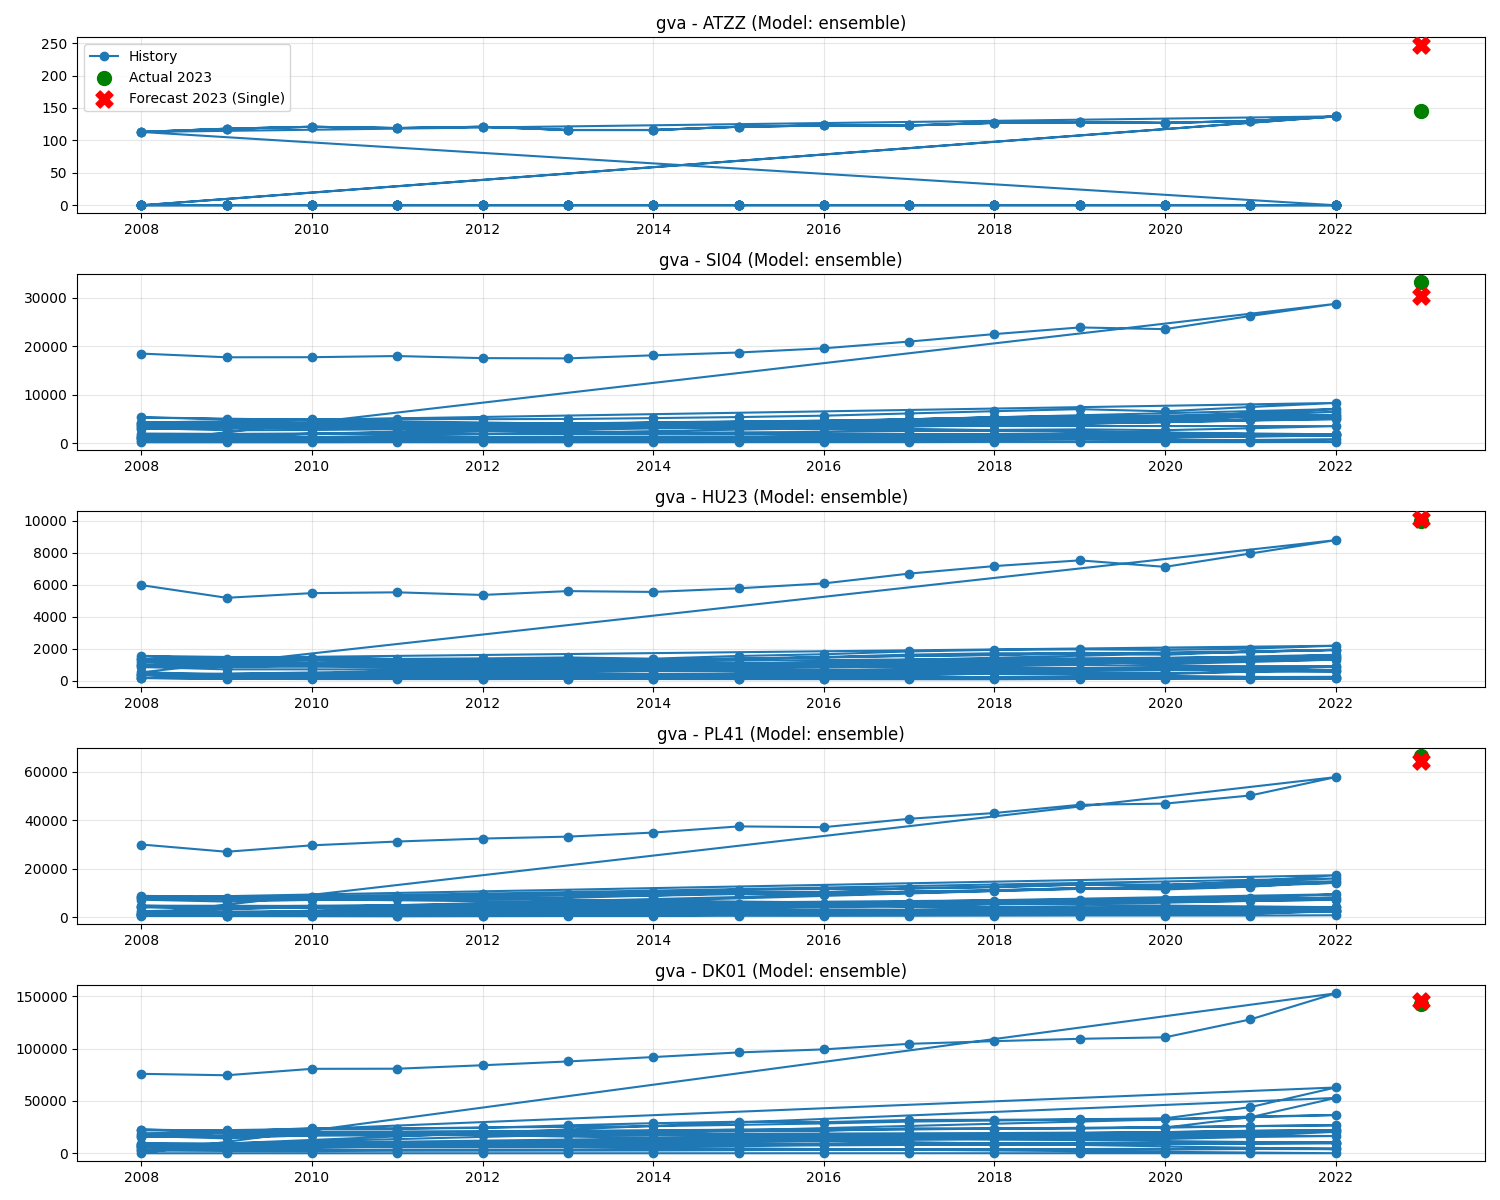
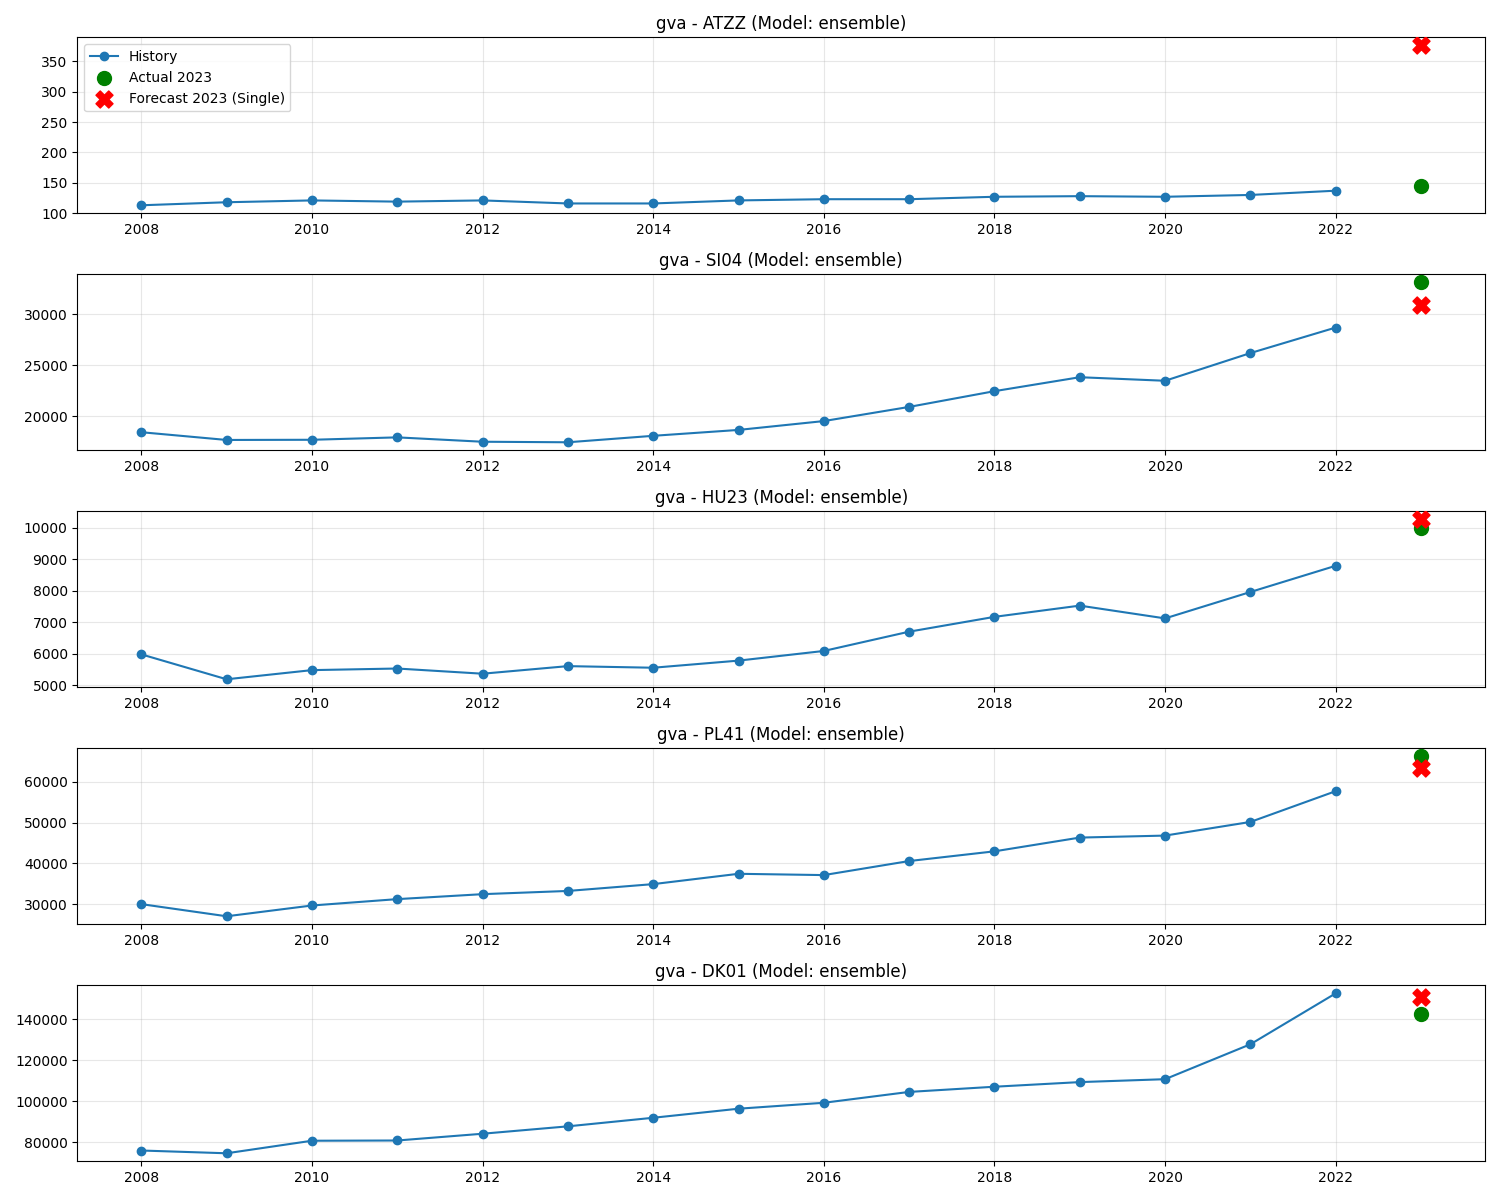
fix gva

diff --git a/src/data_processor.py b/src/data_processor.py
@@ -92,8 +92,17 @@ def prepare_indicator_dataset(wide_df, target_indicator, target_year=2023):
         c for c in wide_df.columns if not c.endswith(str(target_year)) and c != "geo"
     ]
 
-    # X_single: just target_indicator history
-    single_feature_cols = [c for c in feature_cols if c.startswith(target_indicator + "_")]
+    # X_single: just target_indicator history (exact match, not sub-indicators)
+    # Match columns like "gva_2008" but NOT "gva_sector_a_2008"
+    # The pattern should be: {target_indicator}_{year} where year is numeric
+    single_feature_cols = []
+    prefix = target_indicator + "_"
+    for c in feature_cols:
+        if c.startswith(prefix):
+            # Remove the prefix and check if what remains is just a year
+            remainder = c[len(prefix):]
+            if remainder.isdigit():  # If remainder is just digits, it's a year - this is the exact indicator
+                single_feature_cols.append(c)
 
     return train_eval_df, forecast_df, {
         "single": single_feature_cols,
